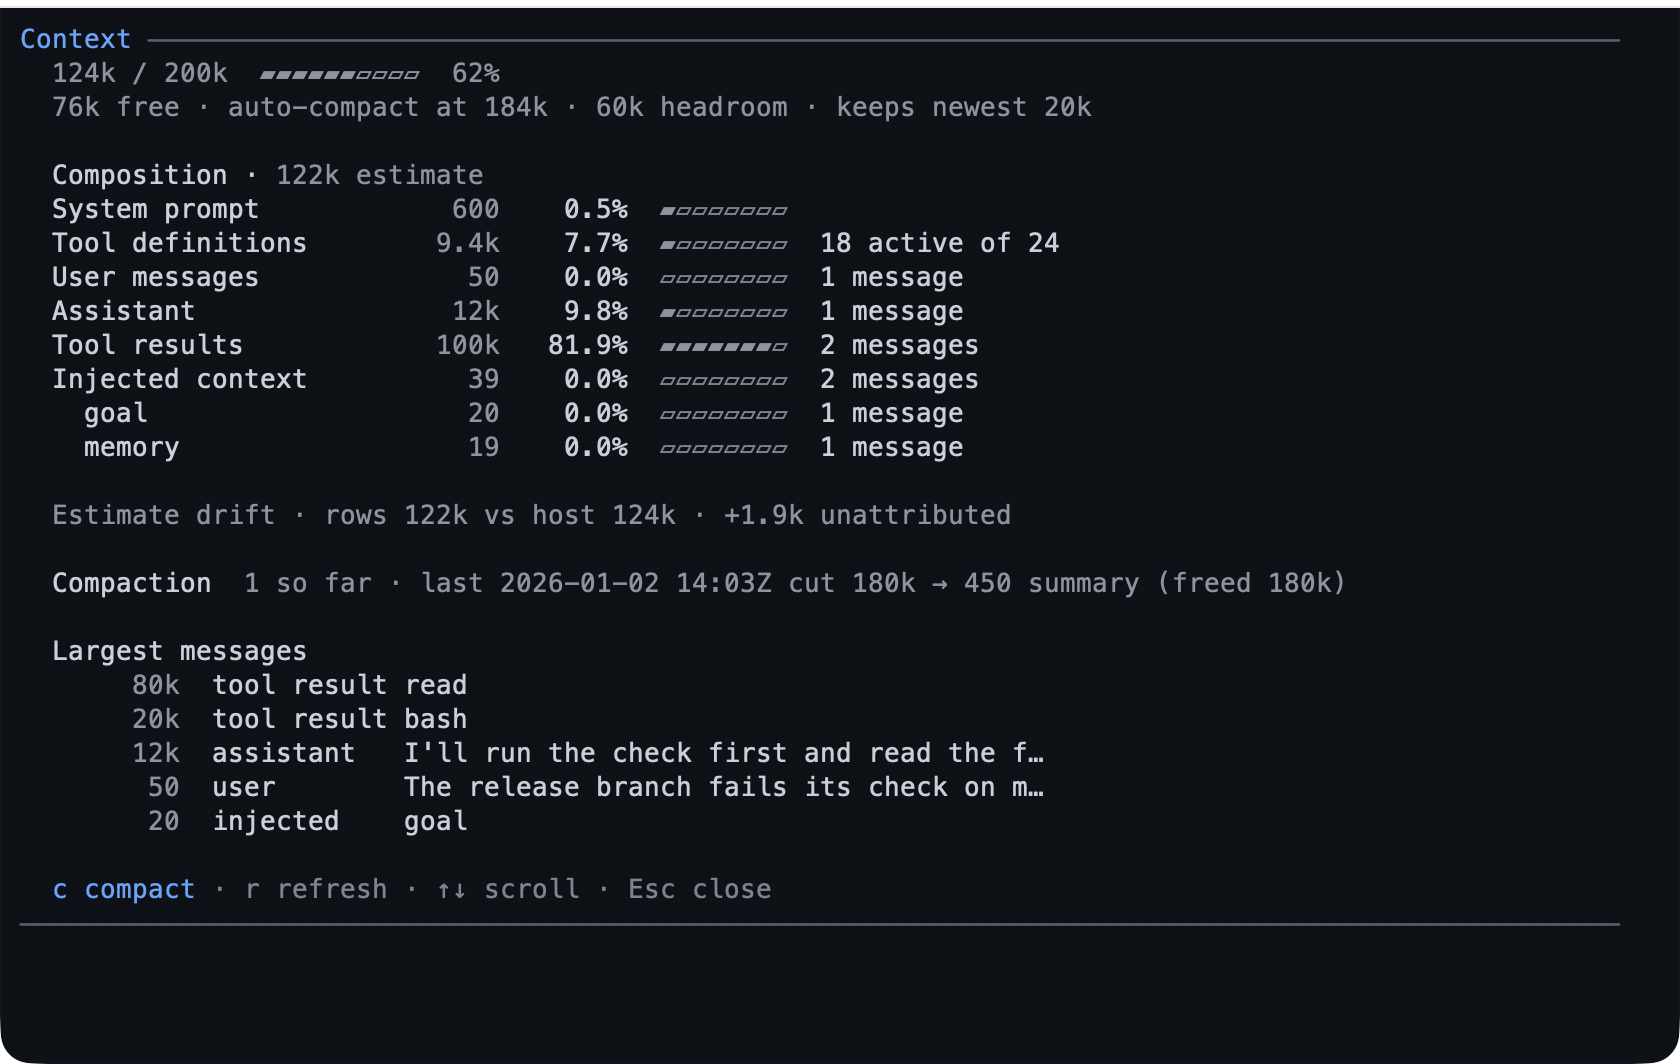
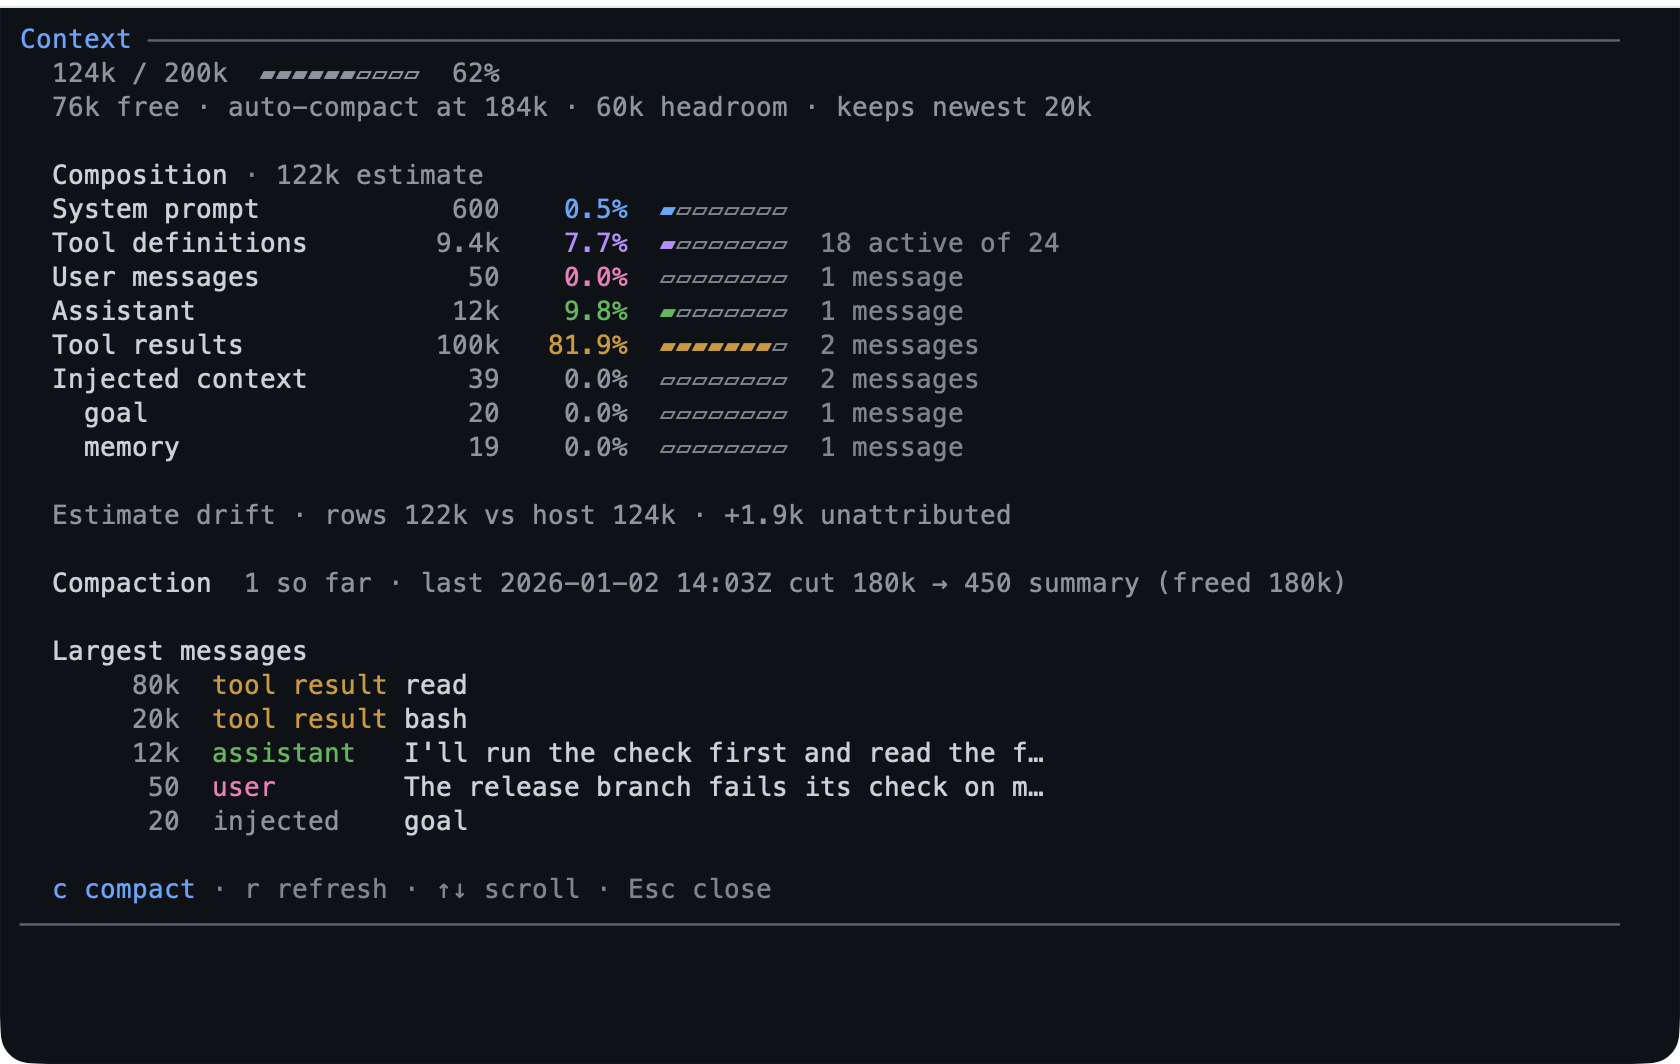
feat(context): the composition table reads as a chart
Each row's bar and share percentage now wear the hue of its category — blue
for the system prompt, purple for the tool definitions, pink for user
messages, green for the assistant, amber for tool results — and the largest
message list uses the same table, so a tool result is one colour in both
places. Injected context, summaries and shell output stay neutral.

The share column, the notes and the message previews are painted at all for
the first time: they used to fall through to the terminal's foreground, so a
theme switch could not move them and a row read in three tones.

lib/tui gains hue1..hue5 for categories, kept apart from ok/warn/bad, which
stay verdicts; both shipped themes prove the five clear 4.5:1 and stay
distinct from each other.

diff --git a/extensions/context/tui.test.ts b/extensions/context/tui.test.ts
@@ -13,9 +13,10 @@ import type { AgentMessage } from "@earendil-works/pi-agent-core";
 import { buildReport } from "./report.ts";
 import { ContextComponent, type ContextCompactCallbacks, type ContextScreenOptions } from "./tui.ts";
 import type { ContextReport } from "./types.ts";
-import { fakeTheme } from "../../test/helpers/fakes.ts";
+import { bracketedTheme, coloringTheme, fakeTheme, unpaintedText } from "../../test/helpers/fakes.ts";
 import { sampleContext } from "../../test/helpers/fixtures/context.ts";
 import { GLYPHS } from "../../lib/tui/glyphs.ts";
+import { TUI_TOKENS } from "../../lib/tui/tokens.ts";
 
 /** A screen with recorder callbacks and a mutable report source. */
 function makeScreen(overrides: Partial<ContextScreenOptions> = {}, next?: ContextReport) {
@@ -112,6 +113,64 @@ describe("the context screen", () => {
 
 	test("names the composition total above the rows", () => {
 		expect(makeScreen().component.render(80).join("\n")).toContain("Composition · 545 estimate");
+	});
+
+	test("paints each category in its hue, and the neutrals quiet", () => {
+		// The table is a chart: a bucket's bar and its share carry one hue per category, so
+		// the same category is the same colour in the largest-message list below it.
+		const report = buildReport(sampleContext());
+		const crafted: ContextReport = {
+			...report,
+			buckets: [
+				{ id: "system", label: "System prompt", tokens: 600, share: 0.5, depth: 0 },
+				{ id: "tools", label: "Tool definitions", tokens: 9400, share: 7.7, depth: 0, note: "18 active of 24" },
+				{ id: "user", label: "User messages", tokens: 50, share: 0, depth: 0 },
+				{ id: "assistant", label: "Assistant", tokens: 12000, share: 9.8, depth: 0 },
+				{ id: "toolResults", label: "Tool results", tokens: 100000, share: 81.9, depth: 0 },
+				{ id: "injected", label: "Injected context", tokens: 39, share: 0, depth: 0 },
+				{ id: "injected:goal", label: "goal", tokens: 20, share: 0, depth: 1 },
+			],
+			largest: [
+				{ tokens: 80000, role: "tool result", label: "read" },
+				{ tokens: 12000, role: "assistant", label: "a reply" },
+				{ tokens: 50, role: "user", label: "a question" },
+				{ tokens: 20, role: "injected", label: "goal" },
+			],
+		};
+		const lines = makeScreen({ theme: coloringTheme, report: crafted }).component.render(120);
+		const row = (label: string) => lines.find((line) => line.includes(label)) ?? "";
+
+		// `coloringTheme` tags each run with the token the role resolves to, which is the
+		// same table the kit ships.
+		for (const [label, hue] of [
+			["System prompt", "hue1"],
+			["Tool definitions", "hue2"],
+			["User messages", "hue3"],
+			["Assistant", "hue4"],
+			["Tool results", "hue5"],
+		] as const) {
+			expect(row(label), label).toContain(`[${TUI_TOKENS[hue]}]`);
+		}
+		// The catch-alls stay neutral, and a child is quieter than its parent.
+		expect(row("Injected context")).toContain(`[${TUI_TOKENS.meta}]`);
+		expect(row("goal")).toContain(`[${TUI_TOKENS.meta}]`);
+		// The note is faint, so a row reads label · count · hue · faint note.
+		expect(row("Tool definitions")).toContain(`[${TUI_TOKENS.faint}]  18 active of 24`);
+
+		const message = (label: string) => lines.find((line) => line.includes(label)) ?? "";
+		expect(message("read")).toContain(`[${TUI_TOKENS.hue5}]tool result`);
+		expect(message("a reply")).toContain(`[${TUI_TOKENS.hue4}]assistant`);
+		expect(message("a question")).toContain(`[${TUI_TOKENS.hue3}]user`);
+		expect(message("injected")).toContain(`[${TUI_TOKENS.meta}]injected`);
+		// The preview is body text, not the terminal's default.
+		expect(message("a reply")).toContain(`[${TUI_TOKENS.label}]a reply`);
+	});
+
+	test("leaves no word in the terminal's own colour", () => {
+		// Every painted run is bracketed by the theme, so whatever survives removal is
+		// text drawn with no role — the defect this screen shipped with.
+		const lines = makeScreen({ theme: bracketedTheme }).component.render(120);
+		expect(unpaintedText(lines)).not.toMatch(/[A-Za-z0-9]/);
 	});
 
 	test("drops the composition total when the width cannot hold it", () => {

diff --git a/extensions/context/tui.ts b/extensions/context/tui.ts
@@ -71,6 +71,34 @@ function shareCell(share: number): string {
 	return `${share.toFixed(1)}%`.padStart(6);
 }
 
+/**
+ * The hue that identifies a context category, keyed by the bucket ids
+ * `report.ts` builds.
+ *
+ * Categories are what the screen tells apart at a glance; a bucket with no
+ * entry here — injected context and its children, summaries, shell output, a
+ * type this build has never seen — reads neutral, so the catch-all rows stay
+ * quiet and the coloured ones mean something. The same table answers for the
+ * largest-message list, so a tool result is one colour in both sections.
+ */
+const CATEGORY_HUES: Readonly<Record<string, TuiRole>> = {
+	system: "hue1",
+	tools: "hue2",
+	user: "hue3",
+	assistant: "hue4",
+	toolResults: "hue5",
+};
+
+/** The hue for a bucket id, or `undefined` when the category is neutral. */
+export function hueOf(id: string): TuiRole | undefined {
+	return CATEGORY_HUES[id];
+}
+
+/** The hue for a message role word; `tool result` is the bucket's own category. */
+export function hueForRole(role: string): TuiRole | undefined {
+	return CATEGORY_HUES[role === "tool result" ? "toolResults" : role];
+}
+
 /** Pad a label to its column with spaces, measured in terminal columns. */
 function padCell(text: string, width: number): string {
 	const clipped = truncateToWidth(text, width, "…");
@@ -151,7 +179,7 @@ export class ContextComponent implements Component {
 	private compositionLine(width: number): string {
 		const label = paint(this.theme, "label", "Composition");
 		const total = paint(this.theme, "meta", `${formatTokens(this.report.estimate)} estimate`);
-		const full = `  ${label} · ${total}`;
+		const full = `  ${label}${paint(this.theme, "faint", " · ")}${total}`;
 		return visibleWidth(full) <= width ? full : truncateToWidth(`  ${label}`, width);
 	}
 
@@ -161,12 +189,15 @@ export class ContextComponent implements Component {
 		const labelWidth = bucket.depth > 0 ? 20 : 22;
 		const label = padCell(bucket.label, labelWidth);
 		const tokens = formatTokens(bucket.tokens).padStart(6);
-		const share = shareCell(bucket.share);
-		const note = bucket.note ? `  ${bucket.note}` : "";
+		// The row's hue carries the category; the label, the count, and the printed
+		// share still say everything the colour repeats.
+		const hue = hueOf(bucket.id) ?? "meta";
+		const share = paint(this.theme, hue, shareCell(bucket.share));
+		const note = bucket.note ? paint(this.theme, "faint", `  ${bucket.note}`) : "";
 		const bar = gaugeBar(this.theme, {
 			percent: bucket.share,
 			blocks: BUCKET_BLOCKS,
-			role: "meta",
+			role: hue,
 			emptyRole: "faint",
 		});
 		const head = `${indent}${paint(this.theme, "label", label)}${paint(this.theme, "meta", tokens)}`;
@@ -204,7 +235,8 @@ export class ContextComponent implements Component {
 			for (const block of report.largest) {
 				const tokens = formatTokens(block.tokens).padStart(6);
 				const role = padCell(block.role, 12);
-				const candidate = `    ${paint(this.theme, "meta", tokens)}  ${paint(this.theme, "label", role)}${block.label}`;
+				const hue = hueForRole(block.role) ?? "meta";
+				const candidate = `    ${paint(this.theme, "meta", tokens)}  ${paint(this.theme, hue, role)}${paint(this.theme, "label", block.label)}`;
 				lines.push(truncateToWidth(candidate, width));
 			}
 		}

diff --git a/scripts/screenshots.test.ts b/scripts/screenshots.test.ts
@@ -207,25 +207,31 @@ describe("docs screenshots", () => {
 		);
 	});
 
-	test("every colour the hero draws comes from the shipped palette", () => {
-		// The frame is the documentation for the theme, so a colour outside `themes/bytefly-dark.json`
+	test("every colour a screen draws comes from the shipped palette", () => {
+		// A frame is the documentation for the theme, so a colour outside `themes/bytefly-dark.json`
 		// is either a hardcoded hex or a token that left the palette — both invisible in a review.
-		const size = SCREENS.chrome?.size ?? { width: 0, rows: 0 };
-		const lines = frameLines(SCREENS.chrome, size.width, size.rows);
 		const document = JSON.parse(readFileSync(join(repo, "themes", "bytefly-dark.json"), "utf8")) as {
 			vars: Record<string, string>;
 		};
 		const palette = new Set(Object.values(document.vars).map((hex) => hex.toLowerCase()));
 		expect(palette.size).toBeGreaterThan(5);
 
-		const drawn = new Set([...lines.join("\n").matchAll(/\u001b\[38;2;(\d+;\d+;\d+)m/g)].map((match) => match[1]));
-		expect(drawn.size).toBeGreaterThan(5);
-		for (const rgb of drawn) {
-			const hex = `#${(rgb ?? "")
-				.split(";")
-				.map((part) => Number(part).toString(16).padStart(2, "0"))
-				.join("")}`;
-			expect(palette.has(hex), `${rgb} is not a colour in themes/bytefly-dark.json`).toBe(true);
+		for (const [name, screen] of Object.entries(FRAMES)) {
+			const size = screen.size ?? { width: 100, rows: 30 };
+			const drawn = new Set(
+				[
+					...frameLines(screen, size.width, size.rows)
+						.join("\n")
+						.matchAll(/\u001b\[38;2;(\d+;\d+;\d+)m/g),
+				].map((match) => match[1]),
+			);
+			for (const rgb of drawn) {
+				const hex = `#${(rgb ?? "")
+					.split(";")
+					.map((part) => Number(part).toString(16).padStart(2, "0"))
+					.join("")}`;
+				expect(palette.has(hex), `${name}: ${rgb} is not a colour in themes/bytefly-dark.json`).toBe(true);
+			}
 		}
 	});
 

diff --git a/lib/tui/tokens.ts b/lib/tui/tokens.ts
@@ -8,6 +8,11 @@
  * closed, so the kit only ever references it, never a literal color.
  *
  * Value-only: one frozen lookup table and pure helpers.
+ *
+ * Two vocabularies live here and they do not mix: `ok`/`warn`/`bad` are verdicts —
+ * they say how something *is* — and `hue1`…`hue5` are categories, which say only
+ * "this is not those". A surface that shows hues keeps its verdicts to the places
+ * that earn one, because a reader cannot tell a borrowed green from a judgement.
  */
 
 import type { Theme, ThemeColor } from "@earendil-works/pi-coding-agent";
@@ -35,7 +40,20 @@ export type TuiRole =
 	/** Error. */
 	| "bad"
 	/** Neutral notice. */
-	| "info";
+	| "info"
+	/**
+	 * A category hue: identity, never a verdict.
+	 *
+	 * Blue, purple, pink, green, and amber are the shipped palette's five colourful
+	 * tokens, so a categorical surface reads as a chart. Green and amber are the same
+	 * tokens `ok` and `warn` resolve to — that is the cost of Pi's closed token set —
+	 * which is why a hue never appears in a slot that also carries a judgement.
+	 */
+	| "hue1"
+	| "hue2"
+	| "hue3"
+	| "hue4"
+	| "hue5";
 
 /** Role -> theme color. The single place the kit names a Pi token. */
 export const TUI_TOKENS: Readonly<Record<TuiRole, ThemeColor>> = {
@@ -50,6 +68,11 @@ export const TUI_TOKENS: Readonly<Record<TuiRole, ThemeColor>> = {
 	warn: "warning",
 	bad: "error",
 	info: "muted",
+	hue1: "accent",
+	hue2: "mdListBullet",
+	hue3: "mdCode",
+	hue4: "success",
+	hue5: "warning",
 };
 
 /** Paint `text` in a role's color. */

diff --git a/test/theme.test.ts b/test/theme.test.ts
@@ -126,7 +126,23 @@ const CONTRAST_RULES: ReadonlyArray<readonly [token: string, surfaces: readonly 
  * for each. A text role is read, so it needs AA's 4.5; a rule is a one-column
  * non-text mark, so it needs the 3.0 that WCAG sets for graphics.
  */
-const TEXT_ROLES: readonly TuiRole[] = ["accent", "title", "label", "meta", "faint", "ok", "warn", "bad", "info"];
+const TEXT_ROLES: readonly TuiRole[] = [
+	"accent",
+	"title",
+	"label",
+	"meta",
+	"faint",
+	"ok",
+	"warn",
+	"bad",
+	"info",
+	"hue1",
+	"hue2",
+	"hue3",
+	"hue4",
+	"hue5",
+];
+const HUE_ROLES: readonly TuiRole[] = ["hue1", "hue2", "hue3", "hue4", "hue5"];
 const LINE_ROLES: readonly TuiRole[] = ["rule", "ruleStrong"];
 const TEXT_MINIMUM = 4.5;
 const LINE_MINIMUM = 3;
@@ -281,6 +297,15 @@ for (const expected of THEMES) {
 					`role ${role} (${TUI_TOKENS[role]}) on canvas`,
 				).toBeGreaterThanOrEqual(LINE_MINIMUM);
 			}
+		});
+
+		test("keeps the categorical hues distinct from one another", () => {
+			// A screen separates its categories by hue alone once the labels are scanned
+			// past, so a palette that collapses two of them has to fail here rather than
+			// in a picture nobody re-reads.
+			const drawn = HUE_ROLES.map((role) => hexOf(theme, theme.colors[TUI_TOKENS[role]]));
+			expect(drawn.every((hex) => hex !== undefined)).toBe(true);
+			expect(new Set(drawn).size).toBe(HUE_ROLES.length);
 		});
 
 		test("keeps the selected row readable", () => {

diff --git a/test/helpers/fakes.ts b/test/helpers/fakes.ts
@@ -68,6 +68,34 @@ export const ansiTheme: any = {
 	bold: (text: string) => text,
 };
 
+/**
+ * Theme that brackets every painted run, `[[role]]text[/]`, so a test can tell
+ * painted text from text that would fall through to the terminal's own colour.
+ *
+ * Printable brackets rather than control characters: the width helpers strip
+ * control characters, which would eat the markers before a test could read them.
+ */
+export const bracketedTheme: any = {
+	fg: (role: string, text: string) => `[[${role}]]${text}[/]`,
+	bg: (_role: string, text: string) => text,
+	bold: (text: string) => text,
+};
+
+/**
+ * What {@link bracketedTheme} did not bracket: the text left in the terminal's own
+ * colour. A complete run first, then a marker whose run the width clipped, and
+ * finally any escape and the `...` pi-tui appends when it clips a line.
+ */
+export function unpaintedText(lines: readonly string[]): string {
+	return lines
+		.join("\n")
+		.replace(/\[\[[^\]]*\]\][^[]*\[\/\]/g, "")
+		.replace(/\[\/?[^\]]*\]\]/g, "")
+		.replace(/\u001b\[[0-9;]*m/g, "")
+		.replace(/\u001b/g, "")
+		.replace(/\.\.\./g, "");
+}
+
 /** The real SGR a {@link roleSgrTheme} colour token opens with. */
 export const ROLE_SGR = {
 	accent: "\u001b[38;2;1;1;1m",

diff --git a/docs/extensions/context.md b/docs/extensions/context.md
@@ -16,7 +16,7 @@ untouched.
 | Honest drift | `/context` | The difference between Pi's total and the composition estimate, named instead of hidden by forcing the parts to add up. |
 | Compaction history | `/context` | How many compactions the branch has, what the newest one cut from and to, and what its summary costs. |
 | Largest messages | `/context` | The five largest single messages, so a report that is mostly one tool result says so. |
-| Gauge rendering | the `/context` screen | The window and composition bars show ten or eight cells, colored by role, instead of leaving the reader to infer the shape. |
+| Gauge rendering | the `/context` screen | The window and composition bars show ten or eight cells, colored by the row's category — the same hue in the composition table and in the largest-message list — instead of leaving the reader to infer the shape. |
 | Pending total | `/context` after a compaction | The report shows a pending total instead of a fabricated estimate while Pi recalculates the window. |
 | Mode coverage | `/context` | A scrollable screen in the TUI, the same facts as plain text in `rpc`, `json`, and `print`. |
 
@@ -80,6 +80,28 @@ the host's total is the larger one, and `host counts messages only` before the
 first reply, when Pi's fallback leaves the prompt and the tools out. Each bar
 rounds to the nearest cell, so a bar sits within half a cell of the percentage
 printed beside it; the percentage itself is exact.
+
+## The table is a chart
+
+A row's bar and its percentage wear the hue of its category, and the
+largest-message list uses the same table, so a tool result is one colour wherever
+it appears. A hue identifies; it never judges — the gauge is the only verdict on
+the screen, and the footer's feedback line is the transient one. Labels, token
+counts, and notes stay in the body, secondary, and faint roles, so the text still
+reads on its own and the colour repeats an order the row already has.
+
+| Category | Hue | Bucket ids |
+|---|---|---|
+| System prompt | blue (`hue1`) | `system` |
+| Tool definitions | purple (`hue2`) | `tools` |
+| User messages | pink (`hue3`) | `user` |
+| Assistant | green (`hue4`) | `assistant` |
+| Tool results | amber (`hue5`) | `toolResults`, the `tool result` rows |
+| Everything else | neutral (`meta`, children `faint`) | injected context and its children, summaries, shell output |
+
+A category with no entry — an injected type, a role a future Pi adds — reads
+neutral rather than borrowing a hue, so the coloured rows always mean the five
+categories above.
 
 | Row | Source |
 |---|---|

diff --git a/CHANGELOG.md b/CHANGELOG.md
@@ -21,6 +21,14 @@ to [Semantic Versioning](https://semver.org/spec/v2.0.0.html).
 
 ### Changed
 
+- `context`: the composition table reads as a chart. Each row's bar and share percentage wear the
+  hue of its category — blue for the system prompt, purple for the tool definitions, pink for user
+  messages, green for the assistant, amber for tool results — and the largest-message list uses the
+  same table, so a tool result is one colour in both places. Injected context, summaries, and shell
+  output stay neutral. The share column, the notes, and the message previews are now painted at all:
+  they used to fall through to the terminal's own foreground, so a `/theme` switch could not move
+  them and a row read in three tones. `lib/tui` gains `hue1`…`hue5` for categories, kept apart from
+  `ok`/`warn`/`bad`, which remain verdicts.
 - `bytefly`: the live run line is drawn on the composer's top border, beside Pi's spinner,
   instead of in a row above it — the mode editor opts into Pi's embedded working indicator,
   as Pi's own editor does — and it reads `working · 12s`, then `working · 3 tools · 12s`:

diff --git a/lib/tui/README.md b/lib/tui/README.md
@@ -124,6 +124,18 @@ revert, a kill, a stop, a clear, a forget), and `bad` for one that ends the
 session. Keys that navigate, scroll, or select stay `faint`, so a colored key is
 one worth a second thought.
 
+## A hue identifies, a verdict judges
+
+`ok` / `warn` / `bad` say how something *is*, and a surface that shows them is
+making a judgement. `hue1`…`hue5` — blue, purple, pink, green, amber — say only
+which category a row belongs to, which is what a table or a bar needs to be
+told apart at a glance. They are the same tokens in places (green is `success`,
+amber is `warning`), so the two vocabularies do not mix on one surface: a screen
+that paints hues keeps its verdicts to the gauge, a status word, or a feedback
+line, and a hue never lands in a slot that also carries a judgement. Color is
+redundant there — the label, the order, and the printed number already say what
+the hue repeats — so nothing may be encoded by hue alone.
+
 ## Width is columns
 
 Width is terminal columns, not string length. Use `visibleWidth`,
